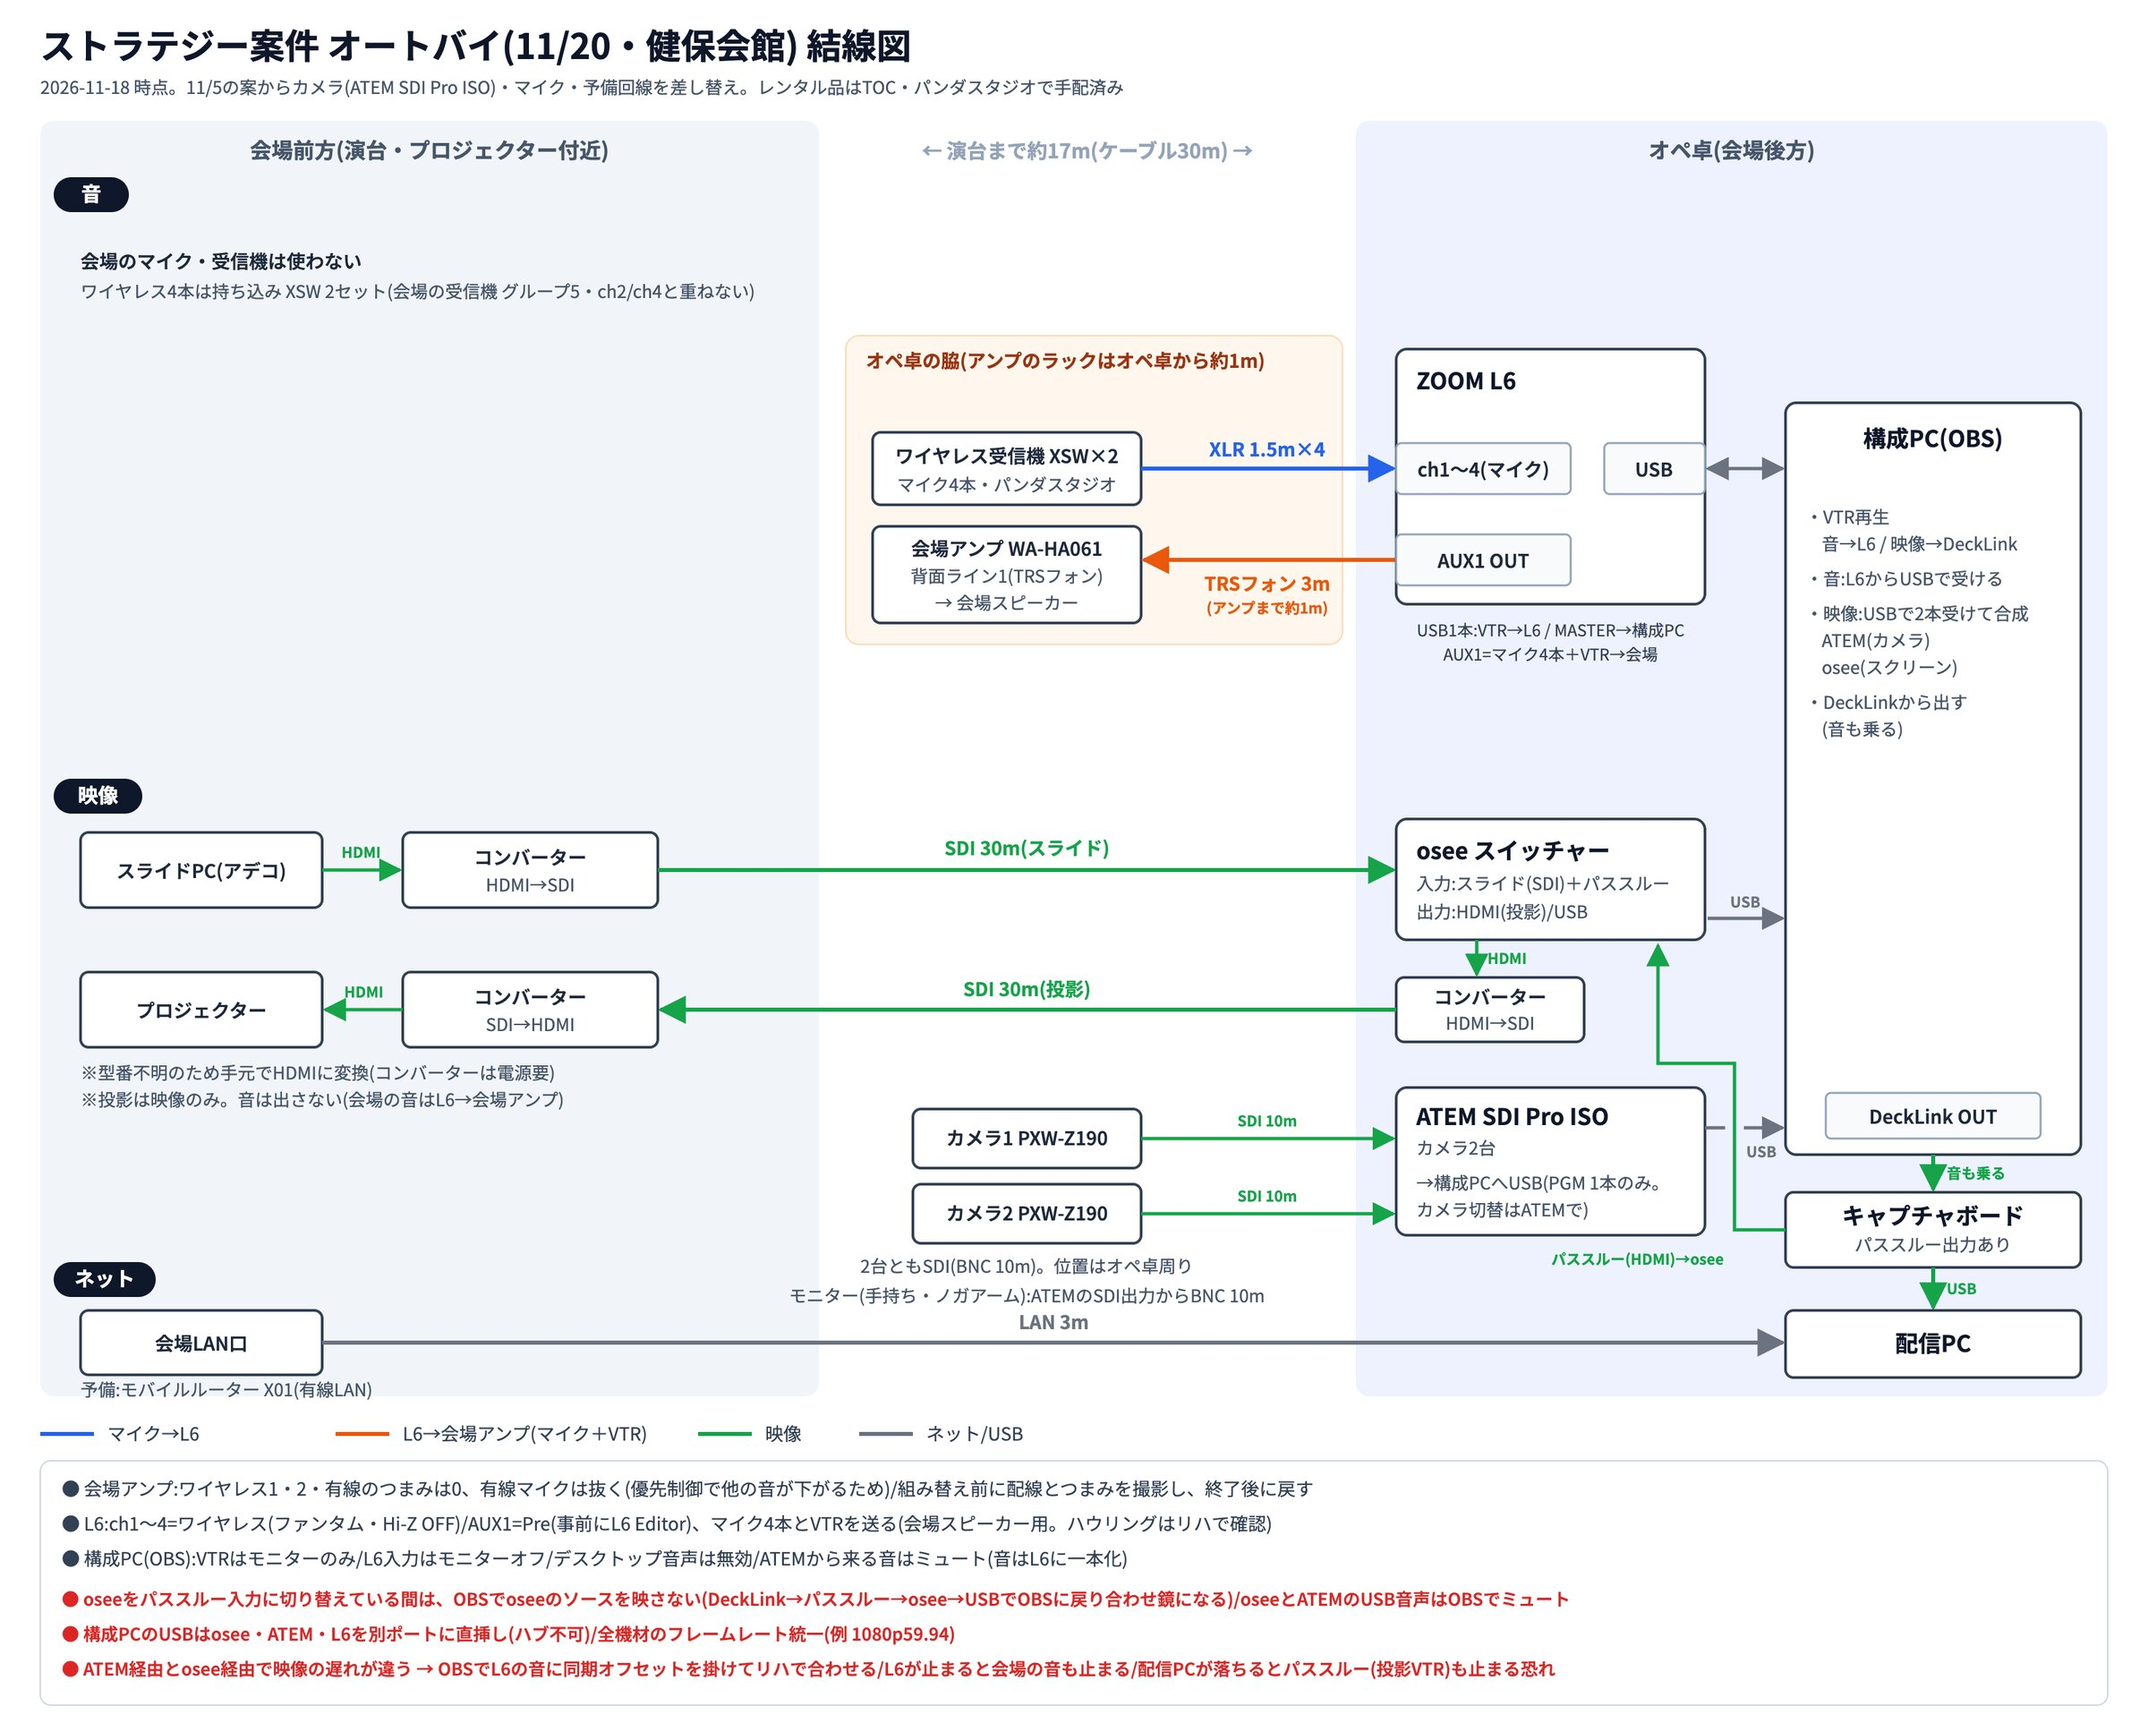
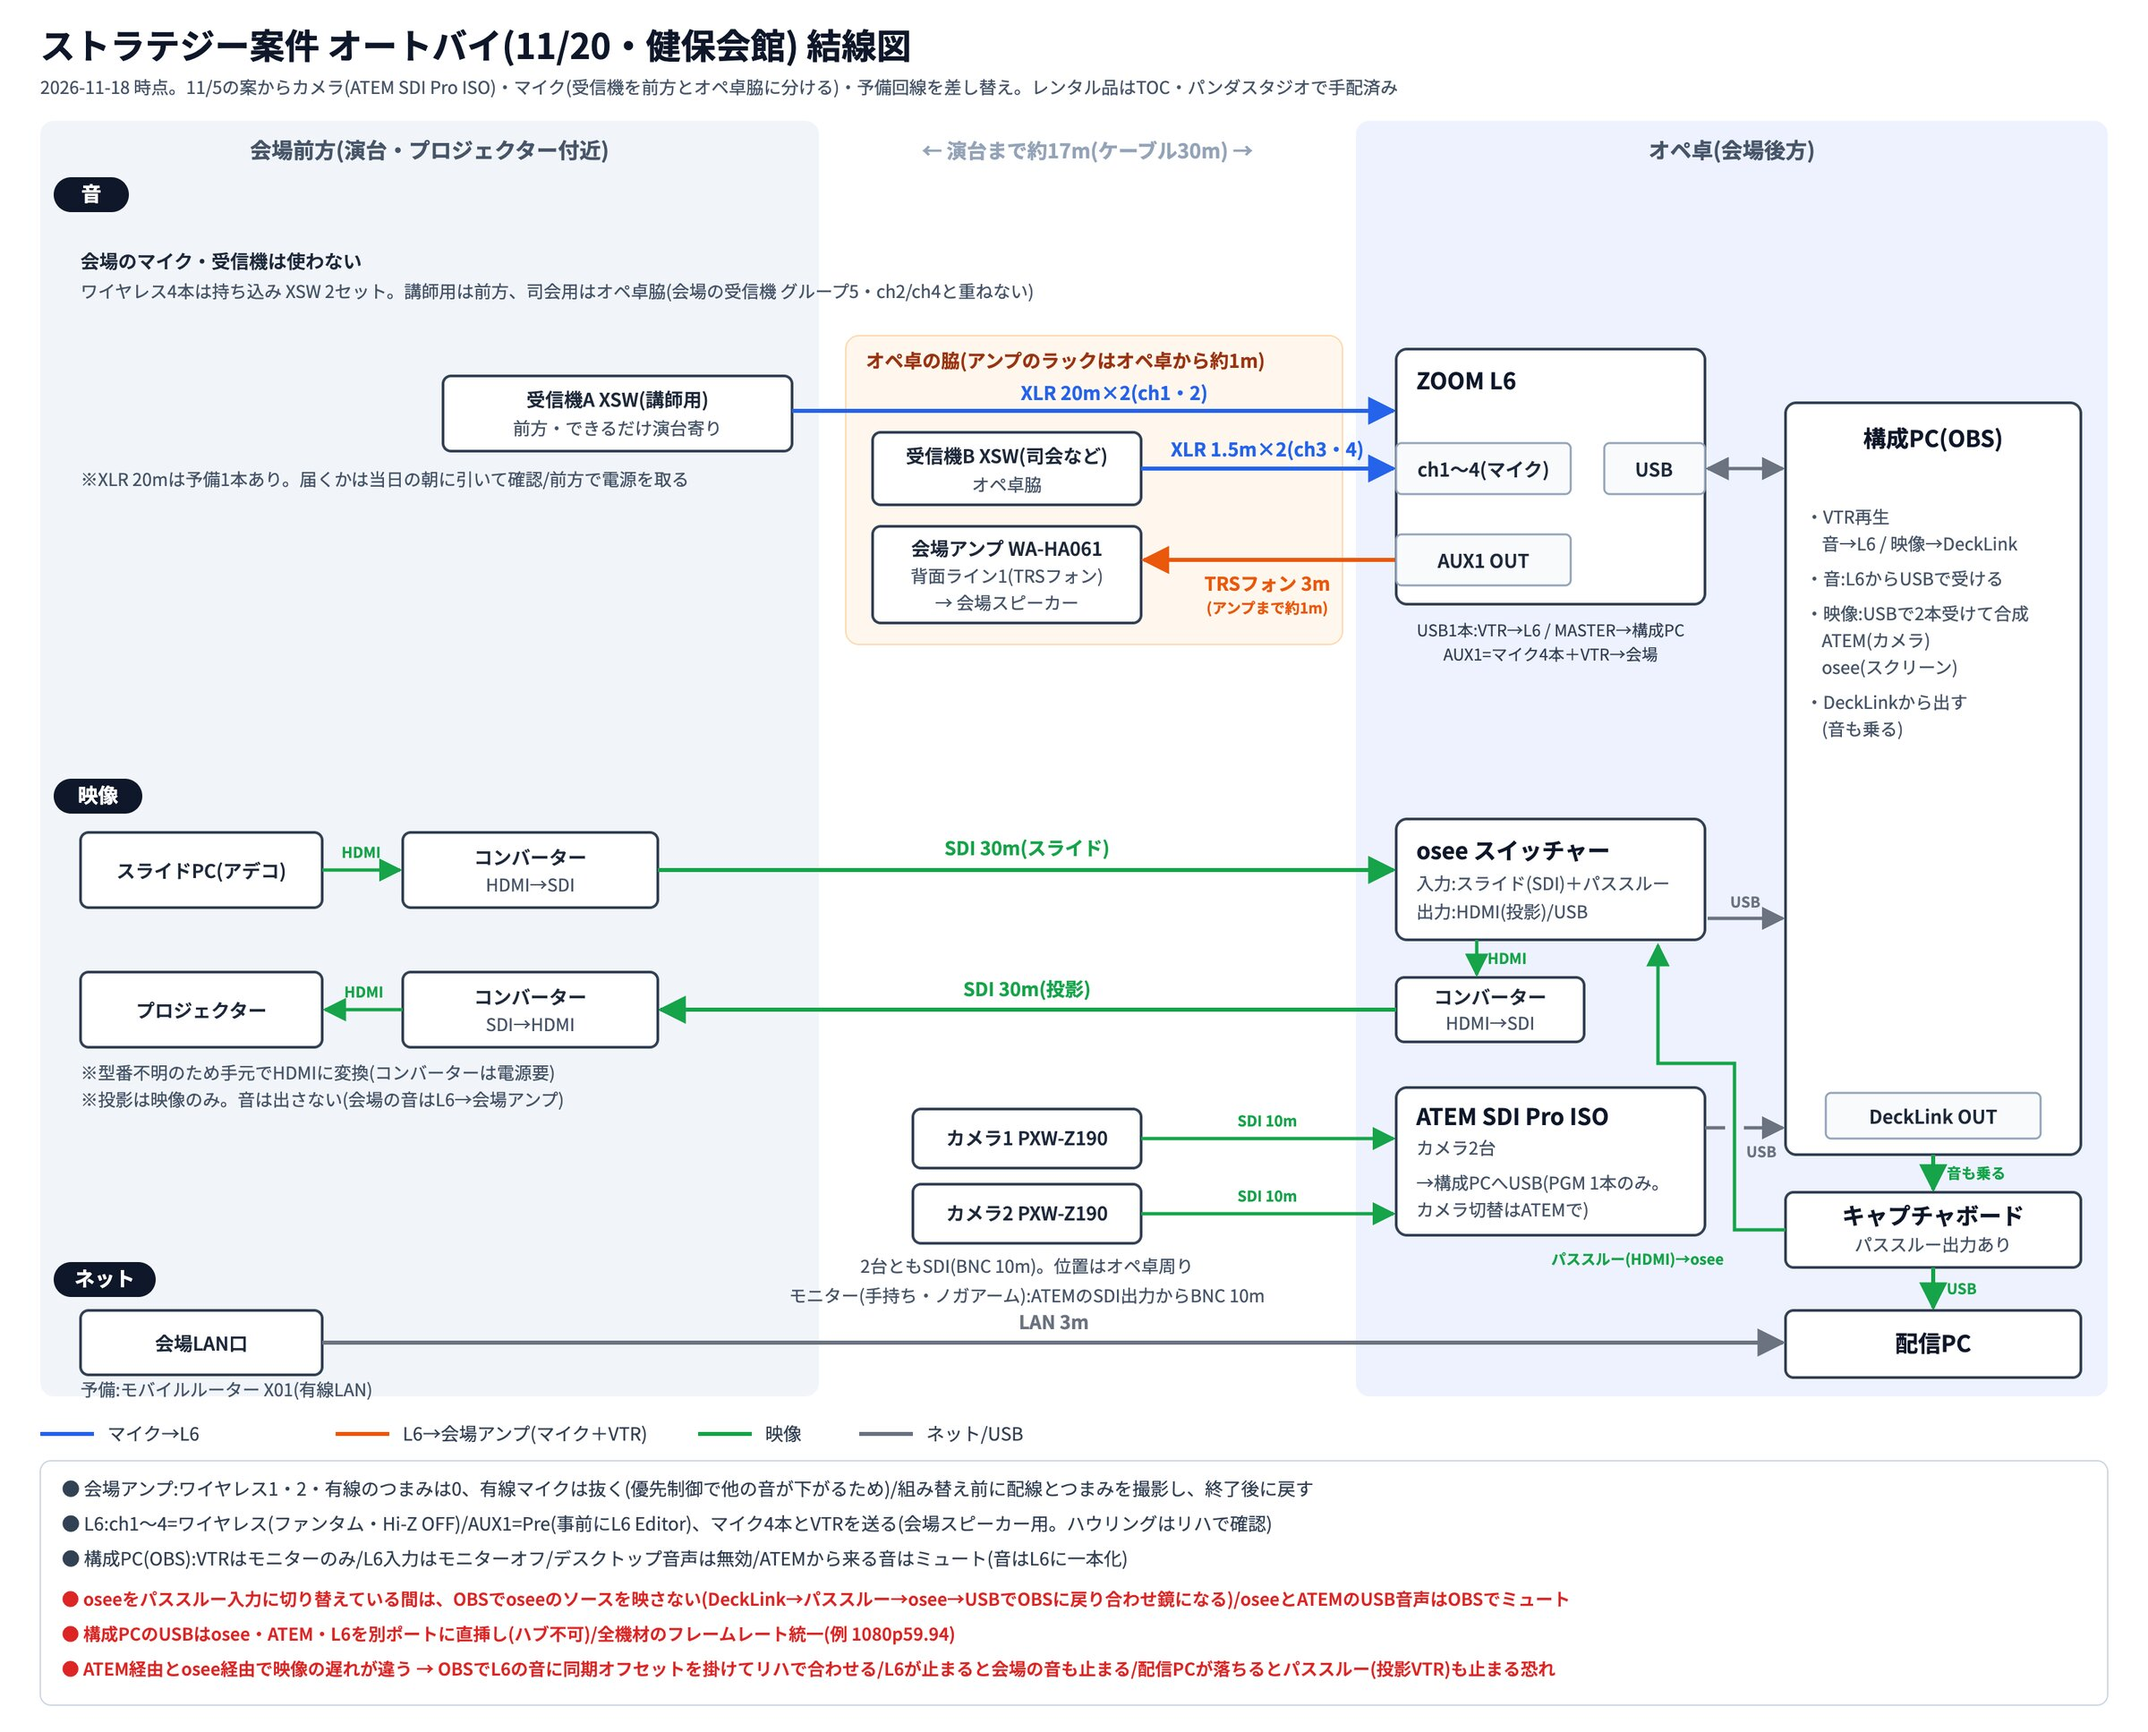
結線図: 講師用の受信機を前方に置きキャノン20mでL6へ

diff --git a/index.html b/index.html
@@ -319,7 +319,7 @@ footer .orn{opacity:.3;mix-blend-mode:screen;left:-50px;bottom:-30px;width:min(5
     <p class="lead">機材拠点とカメラは後方中央（赤枠・縦3列撤去）。投影は前方の白壁、プロジェクターは中央の机。壁にコンセントが多数あります。画像をタップすると拡大します。</p>
     <button class="shot" type="button" id="layBtn" aria-label="会場レイアウトを拡大"><img src="layout.jpg" alt="当日の会場レイアウト" loading="lazy"></button>
     <h3 id="wire" style="margin-top:30px;font-size:15px;color:var(--navy);scroll-margin-top:60px">機材の繋ぎこみ（結線図）</h3>
-    <p class="lead">カメラ2台はSDI（BNC 10m）でATEM SDI Pro ISOへ。マイク4本はXSWの受信機からL6へ。スライドと投影はSDI 30m。</p>
+    <p class="lead">カメラ2台はSDI（BNC 10m）でATEM SDI Pro ISOへ。マイクの受信機は2台に分ける。講師用は前方（できるだけ演台寄り）からキャノン20mで、司会用はオペ卓脇からL6へ。スライドと投影はSDI 30m。</p>
     <button class="shot" type="button" id="wireBtn" aria-label="結線図を拡大"><img src="wire.jpg" alt="結線図" loading="lazy"></button>
   </div>
 </section>
@@ -351,8 +351,8 @@ footer .orn{opacity:.3;mix-blend-mode:screen;left:-50px;bottom:-30px;width:min(5
         <tr><td>Blackmagic Design BiDirect SDI/HDMI 3G（コンバーター）</td><td class="q">5</td><td class="m">双方向</td></tr>
         <tr><td>BNCケーブル（3G/HD-SDI）30m</td><td class="q">3</td><td class="m">演台〜卓・卓〜前方</td></tr>
         <tr><td>BNCケーブル（3G/HD-SDI）10m</td><td class="q">4</td><td class="m">カメラ2・モニター1・予備1</td></tr>
-        <tr><td>キャノンケーブル 20m</td><td class="q">3</td><td class="m"></td></tr>
-        <tr><td>キャノンケーブル 1.5m</td><td class="q">5</td><td class="m"></td></tr>
+        <tr><td>キャノンケーブル 20m</td><td class="q">3</td><td class="m">前方の受信機（講師用）→L6 ×2＋予備1</td></tr>
+        <tr><td>キャノンケーブル 1.5m</td><td class="q">5</td><td class="m">オペ卓脇の受信機（司会用）→L6 ほか</td></tr>
         <tr><td>LANケーブル 20m（CAT6）</td><td class="q">2</td><td class="m"></td></tr>
         <tr><td>HDMIケーブル 10m</td><td class="q">3</td><td class="m"></td></tr>
         <tr><td>HDMIケーブル 3m</td><td class="q">4</td><td class="m"></td></tr>
